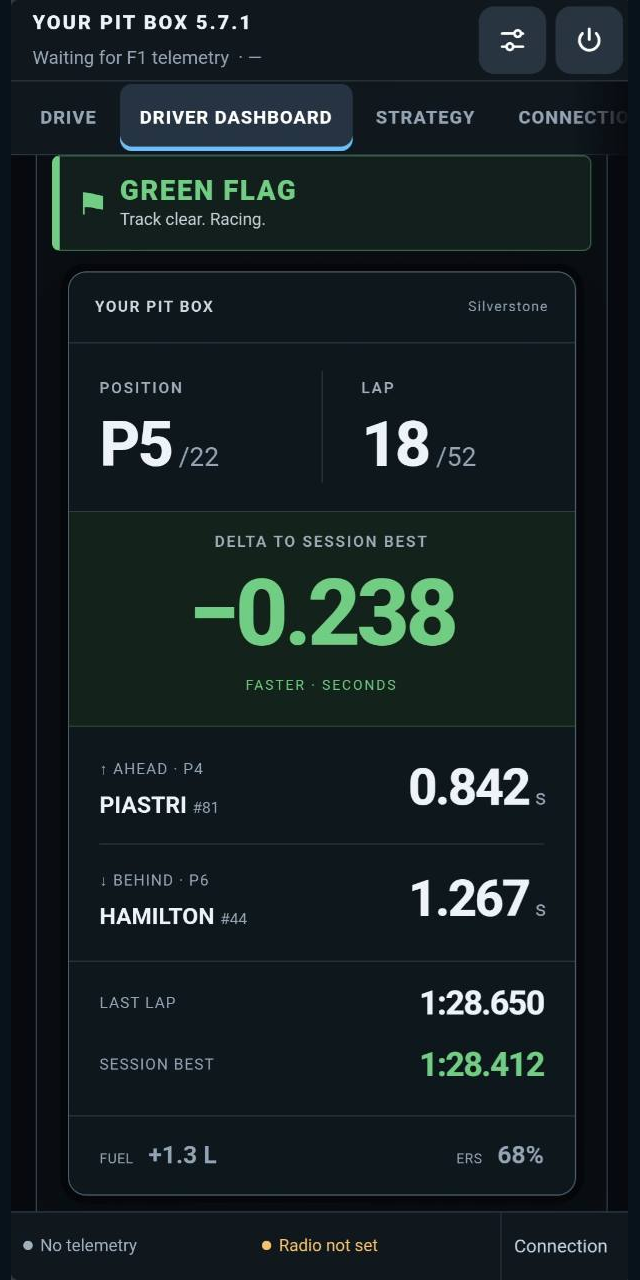
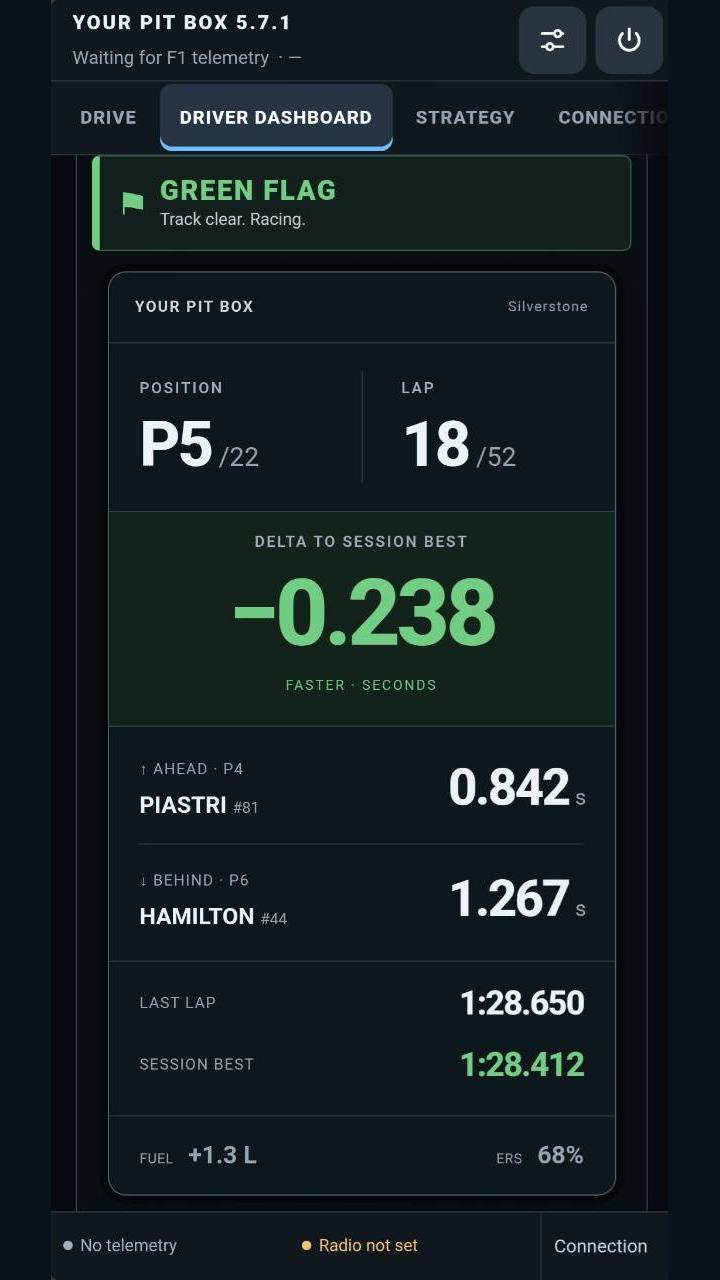
Match Play screenshot ratios and translate privacy link

diff --git a/docs/play-store-launch/STATUS.md b/docs/play-store-launch/STATUS.md
@@ -7,17 +7,18 @@ Release baseline: `origin/main` at `e23294c` (Your Pit Box 5.8.0, Android revisi
 ## Confirmed
 
 - The Play Console app exists as a draft with package `com.yourpitbox.app` under a personal developer account.
-- Play Console currently shows 0 of 11 app information and store listing tasks complete, no internal release, and 0 closed testers opted in.
+- At the initial audit, Play Console showed 0 of 11 app information and store listing tasks complete, no internal release, and 0 closed testers opted in. The store settings and listing are now saved drafts, pending submission for Play review.
 - The account must complete a closed test with 12 opted-in testers for 14 continuous days, then apply for production access. Production submission is not available yet.
 - The Android project targets API 36, supports Android 7+ (`minSdk 24`), and packages `arm64-v8a` and `x86_64`.
[1 lines of base64/hex data omitted]
 - Driver profiles, sign-in reports, and encrypted API-key storage are on main. The first profile is designed to inherit an existing installation's data, but a signed APK to Play update with retained data has not been verified.
-- Play listing copy, a privacy-policy draft, Data safety research, and branded artwork candidates are in this branch. The phone captures came from the owner; the tablet capture came from an Android emulator test. See `ASSETS.md` for provenance and version caveats.
-- The first CI run for this branch reached 3,779 passing tests and failed one assertion that still required revision 44. That assertion now checks for revision 45 or later; the release bundle job had not run at the time of this update.
+- Play listing copy, a privacy-policy draft, Data safety research, and branded artwork candidates are in this branch. The phone captures came from the owner; the tablet capture came from an Android emulator test. See `ASSETS.md` for provenance and version caveats. The default English Play listing has been saved as a draft with the icon, feature graphic, two phone captures and one 10-inch tablet capture. Category Sports, public support email and secure website URL have also been saved; none of these changes has been sent for Play review.
+- Play Console already shows an app signing key in use. Its Digital Asset Links example has a fingerprint different from the existing APK, suggesting the default Google key must be replaced before uploading a release. The fingerprint and exact key-change path still need verification. See `SIGNING.md`.
+- CI found and fixed a stale revision-44 assertion and three missing translations for the new privacy link. The targeted Android project and translation suites pass locally. The next full CI run is pending.
 
 ## Blocking work
 
-1. Build and verify a signed AAB with a new version code using `prepare-play-bundle.yml` after merge. Confirm the Play **app signing certificate**, distinct from the upload certificate, preserves the existing APK upgrade path before the first Play upload. See `SIGNING.md`.
+1. Verify the current Play app signing fingerprint, then replace it with the existing APK app signing key if different. Build and verify a signed AAB with a new version code using `prepare-play-bundle.yml` after merge. Confirm the Play **app signing certificate**, distinct from the upload certificate, preserves the existing APK upgrade path before the first Play upload. See `SIGNING.md`.
 2. Run the release candidate on a 16 KB page-size device or emulator, and test upgrade from an installed signed APK with saved history, settings, profiles, and keys.
 3. Publish and verify the privacy policy; complete Play's Data safety and account-deletion answers from the actual implementation. The local profile appears to meet Google's offline-account exemption, but the owner must confirm no unpublished cloud login or recovery exists. Local driver profiles also send pseudonymous sign-in events to the developer's server; the existing public licence and website wording that says “no account” is stale until this branch deploys.
 4. Validate the prepared phone and tablet screenshot candidates, icon, and feature graphic against the final build; then complete the store listing and app-content forms.

diff --git a/docs/play-store-launch/SIGNING.md b/docs/play-store-launch/SIGNING.md
@@ -4,6 +4,6 @@ The existing direct-download Android APK is signed with certificate SHA-256 `20c
 
 `prepare-play-bundle.yml` is a manually triggered, `main`-only workflow. It builds an AAB with the existing release-environment key, verifies the AAB's public certificate and native ELF alignment, and retains the signed bundle as a GitHub Actions artifact. It does not upload to Play or publish an APK. Review the PR and merge the preparation changes before running it.
 
-For **the first Play App Signing configuration**, choose the option to provide the existing app signing key to Google, not a Google-generated app signing key. The key must be transferred through Play Console's documented encrypted PEPK flow or equivalent option shown by Google. Do not put the keystore or passwords in a PR, Actions artifact, issue, chat, or website. After enrollment, compare Play Console's **app signing certificate** fingerprint with the value above before adding an AAB to any release. A later separate upload key is recommended; changing the upload key does not change the app signing certificate.
+Play Console already reports an app signing key **in use** for this draft app. Its Digital Asset Links example displays a certificate fingerprint different from the existing direct-download APK. This is evidence of a likely mismatch, but the current signing certificate still needs an independent fingerprint check. Before any Play release, use the Console's **Change key** path to provide the existing app signing key if the current fingerprint is indeed different. The Console warns that previously installed internal/closed-test builds would need reinstalling after such a change; there are no test builds or opted-in testers currently. The key transfer must use Play Console's documented encrypted PEPK flow or equivalent option shown by Google. Do not put the keystore or passwords in a PR, Actions artifact, issue, chat, or website. After the change, compare Play Console's **app signing certificate** fingerprint with the value above before adding an AAB to any release. A later separate upload key is recommended; changing the upload key does not change the app signing certificate.
 
 Before closed testing, install a direct-download APK with saved data, then install the Play-delivered higher-version build over it on the same device. Verify profiles, history, settings, and API keys. This remains untested. Also verify the release bundle's manifest, generated APK 16 KB ZIP alignment, and a 16 KB page-size runtime device or emulator; the source APK ELF inspection is not sufficient evidence for those checks.

diff --git a/docs/play-store-launch/ASSETS.md b/docs/play-store-launch/ASSETS.md
@@ -11,4 +11,4 @@ All files in `assets/` are derived from the existing app branding or genuine And
 | `phone-03-driver-dashboard.png` | Owner's 13 November 2026 Android phone capture, Driver Dashboard, app 5.7.1 | Backup phone screenshot; do not use without explaining that the header says telemetry is unavailable while a saved/example dashboard is shown |
 | `tablet-01-setup-lab.png` | GitHub Actions Android tablet emulator runtime capture from run 43381049191, app 5.7.1 | Tablet screenshot candidate |
 
-The phone images are centered on a 640 × 1280 dark canvas to meet the Play screenshot aspect-ratio limit without cropping the genuine UI. The tablet image is unaltered. The final listing should use fresh captures from the verified release candidate if its UI differs materially from 5.7.1. Confirm the store icon and graphic are legible in Play's previews before submission.
+The phone images are centered on a 720 × 1280 dark canvas to meet Play Console's 9:16 screenshot requirement without cropping the genuine UI. The tablet capture is centered on a 3200 × 1800 dark canvas for Play Console's 16:9 tablet requirement, without changing its UI. The final listing should use fresh captures from the verified release candidate if its UI differs materially from 5.7.1. Confirm the store icon and graphic are legible in Play's previews before submission.
